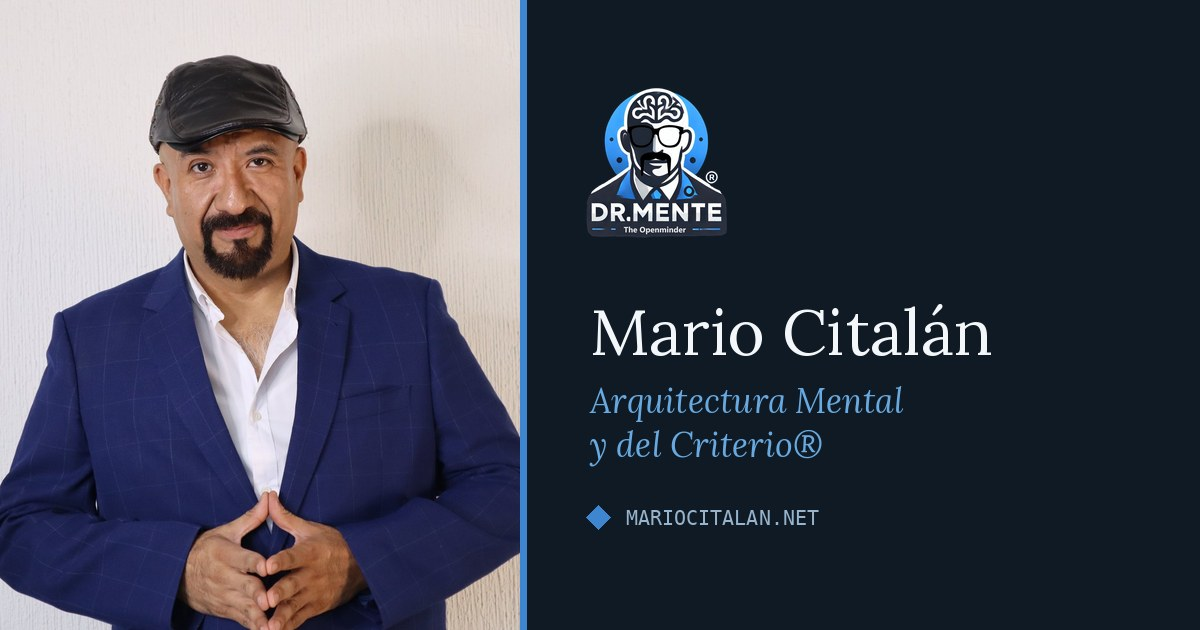
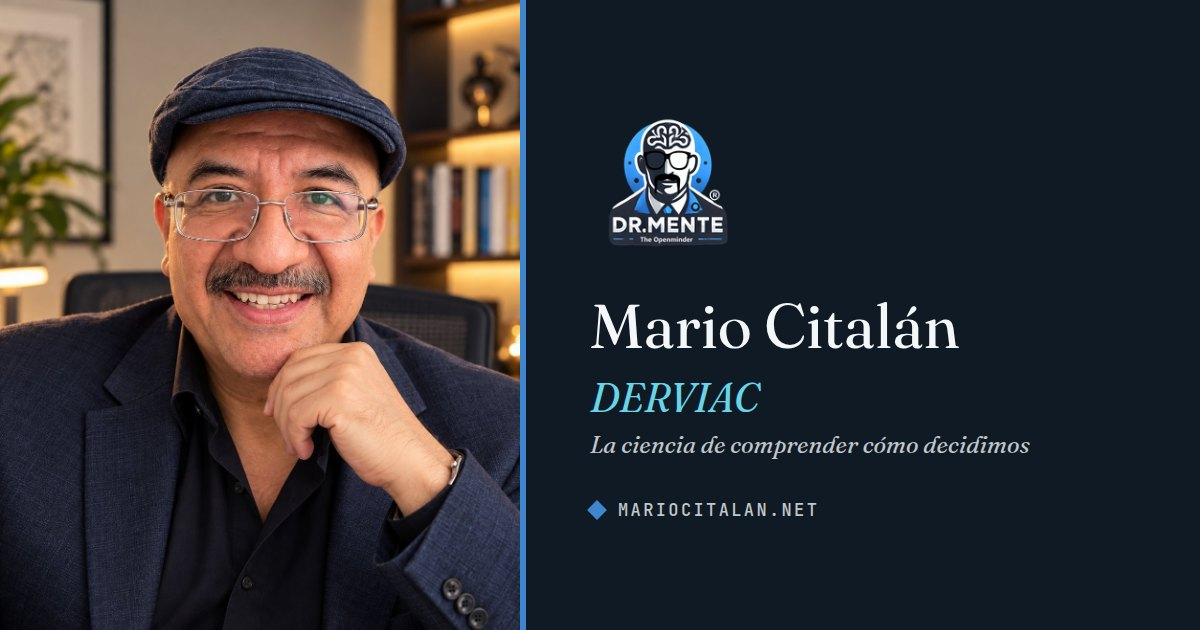
Mario Citalán: foto nueva (sin barba de candado) en hero, bio y portada OG
La portada para redes ahora dice DERVIAC en vez de Arquitectura Mental y del Criterio.

Claude-Session: https://claude.ai/code/session_01Am3NiPzXv22XVg9WMxgXH4

diff --git a/public/demos/mariocitalan/index.html b/public/demos/mariocitalan/index.html
@@ -599,7 +599,7 @@
 
       <div class="hero-right">
         <div class="hero-figure">
-          <img src="assets/img/estudio-hero.jpg" alt="Dr. Mario Citalán, creador de DERVIAC" style="width:100%;height:100%;object-fit:cover;object-position:center top">
+          <img src="assets/img/estudio-hero.jpg?v=2" alt="Dr. Mario Citalán, creador de DERVIAC" style="width:100%;height:100%;object-fit:cover;object-position:center top">
         </div>
         <div class="hero-stamp-box">
           <span class="eyebrow">DERVIAC</span>
@@ -930,7 +930,7 @@
     <div class="about-grid">
       <div class="about-figure">
         <div class="sig">&mdash; Mario</div>
-        <img class="about-photo" src="assets/img/estudio-bio.jpg" alt="Mario Citalán" style="position:absolute;inset:0;width:100%;height:100%;object-fit:cover;object-position:center top">
+        <img class="about-photo" src="assets/img/estudio-bio.jpg?v=2" alt="Mario Citalán" style="position:absolute;inset:0;width:100%;height:100%;object-fit:cover;object-position:center top">
       </div>
       <div class="about-body">
         <h3>Dr. Mario <span class="italic">Citalán</span></h3>
